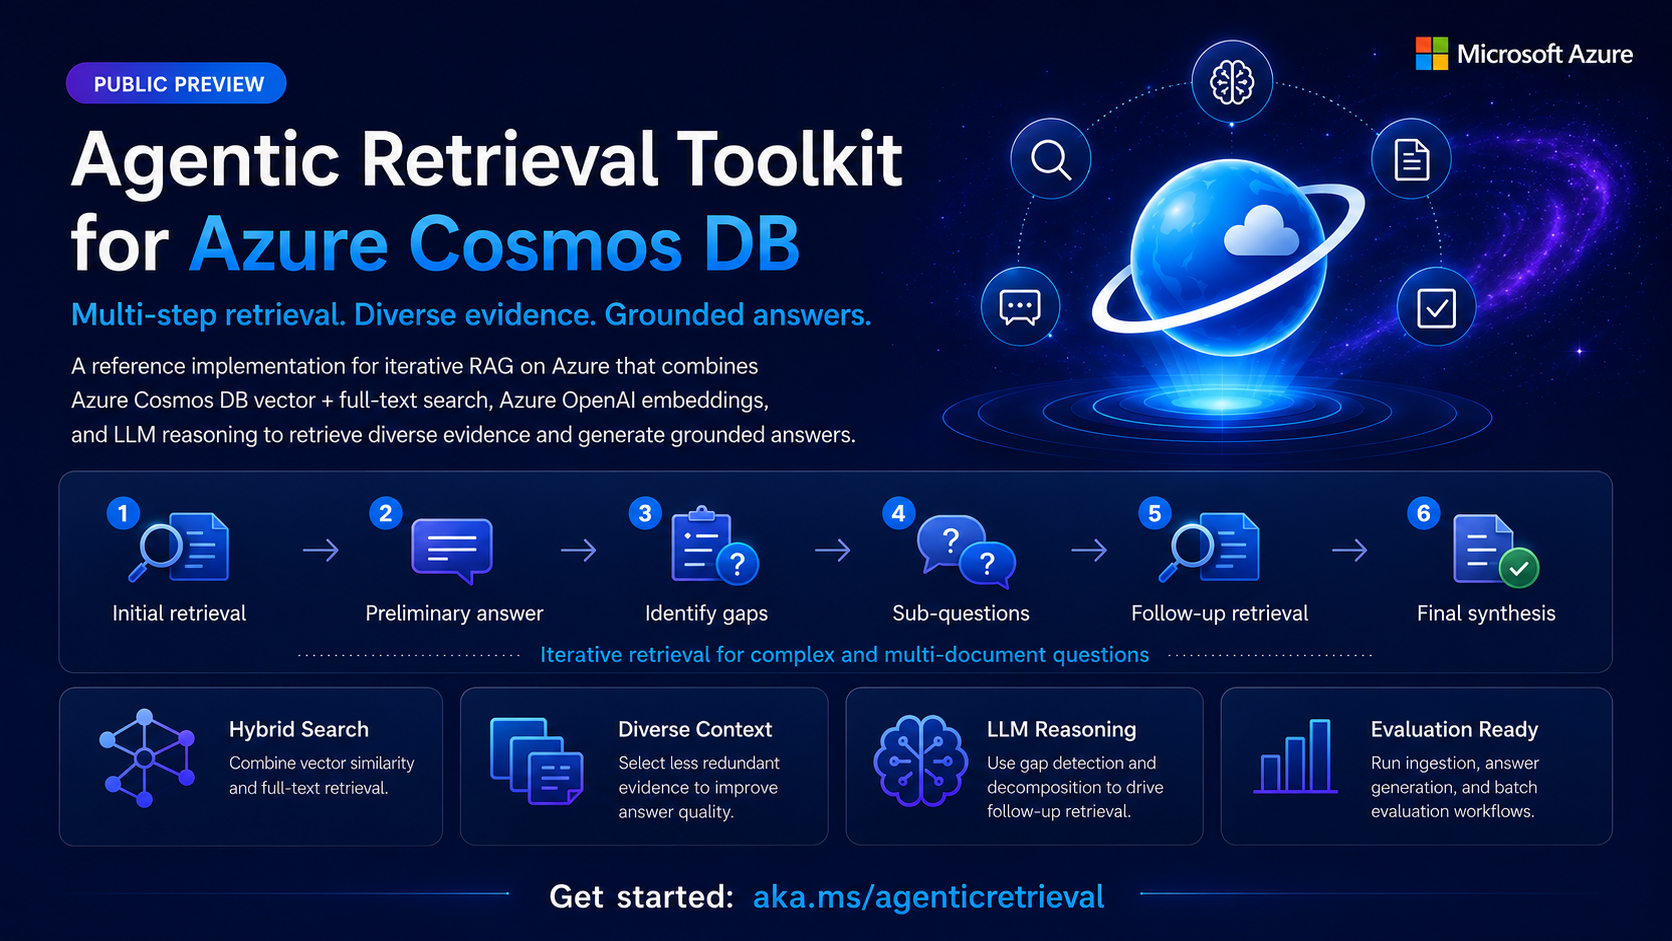
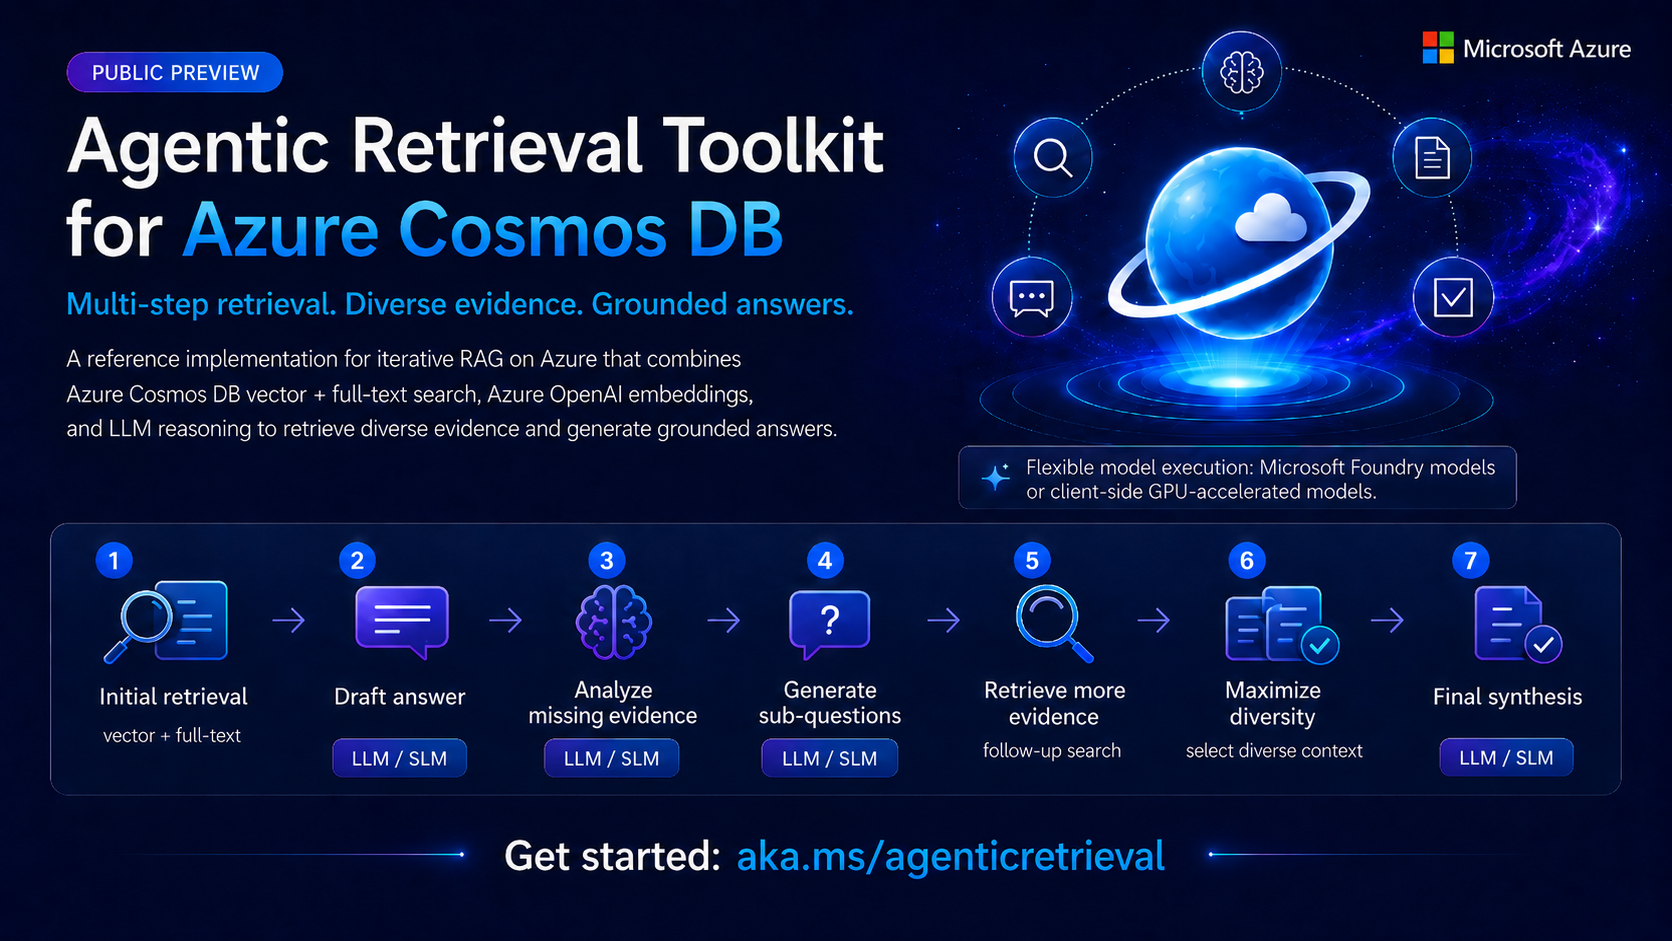
added near-final changes

diff --git a/azure/cosmos-db/gen-ai/semantic-reranker.md b/azure/cosmos-db/gen-ai/semantic-reranker.md
@@ -31,7 +31,7 @@ The Semantic Reranker uses the Microsoft AI Semantic Ranker model, developed int
 
 When evaluating a search or retrieval system, three primary metrics define the end-user experience:
 
-- **Accuracy or recall**: How closely the retrieved results match the ground truth. For example, approximate vector search with DiskANN compared to exact search with a kNN or brute-force searchx.
+- **Accuracy or recall**: How closely the retrieved results match the ground truth. For example, approximate vector search with DiskANN compared to exact search with a kNN or brute-force search.
 - **Latency**: The total time taken to return results from query submission to response.
 - **Relevance**: How well the retrieved documents match the user's intent. For example, for a query like "best surf spots in Hawaii," returning a curated surf guide is more relevant than a general Hawaii travel article.
 
@@ -67,66 +67,93 @@ Use the Azure portal to enable, disable, and configure Semantic Reranker for a s
 
 1. Review the configuration, then save your changes.
 
-## Optional: assign the inference role with Azure CLI
+Next, you want to assign Semantic Reranker roles to the identities that configure the feature or call it at runtime. You can assign roles to a Microsoft Entra user, service principal, user-assigned managed identity, or system-assigned managed identity.
 
-Assign the `Azure.Inference.Executor` app role to the identity that calls Semantic Reranker. You can assign this role from **Access control (IAM)**, from the Semantic Reranker blade in the Azure portal, or by using Azure CLI. Use the CLI option for a user-assigned managed identity, system-assigned managed identity, or Microsoft Entra user.
+## RBAC roles for Semantic Reranker
 
-Before you run these commands, replace `<inference-service-application-id>` with the application ID for the inference service first-party app. You need permissions to read service principals and create app role assignments in Microsoft Entra ID.
+Semantic Reranker uses account-level roles for feature configuration and runtime calls. Grant each identity only the role it needs.
 
-### Assign the role to a managed identity
+| Role name | Role identifier | Description |
+| --- | --- | --- |
+| `Inference Account Operator` | `360cab3d-4340-4c96-816d-682fbd52b3e2` | Enables and disables Semantic Reranker on an Azure Cosmos DB account, but doesn't allow runtime reranker calls. |
+| `Inference Account Owner` | `76315a85-9e6b-4514-9780-868b1977b64e` | Enables and disables Semantic Reranker on an Azure Cosmos DB account and allows runtime reranker calls. |
+| `Semantic Reranker User` | `6c74a7c5-4a87-40f9-bb03-61e49aecbc78` | Allows an application, managed identity, service principal, or user to run Semantic Reranker queries against an Azure Cosmos DB account. |
 
-For a user-assigned or system-assigned managed identity, use the managed identity's object ID as the principal ID.
+These roles control Semantic Reranker access only. If your application uses Microsoft Entra ID to query Azure Cosmos DB before reranking, also assign Azure Cosmos DB data plane permissions that can read items from the source container. Administrators who assign roles need `Owner`, `User Access Administrator`, or equivalent Microsoft Entra permissions.
 
+## Assign Semantic Reranker roles
+
+You can assign Semantic Reranker roles in one of four ways:
+
+- Use the Semantic Reranker portal blade to assign the `Semantic Reranker User` role to identities that already have query or reader roles on the Azure Cosmos DB account and need to call Semantic Reranker.
+- Use **Access control (IAM)** on the Azure Cosmos DB account.
+- Use Azure CLI.
+- Use an Azure Resource Manager (ARM) template deployment with Bicep.
+
+### Assign the role with Azure CLI
+
+Assign the `Semantic Reranker User` role to the identity that calls Semantic Reranker. Use the CLI option when you want to assign the role to a user-assigned managed identity, system-assigned managed identity, service principal, or Microsoft Entra user without using the portal.
+
+Before you run these commands, replace the placeholder values with your Azure subscription, Azure Cosmos DB account, and principal details. The following example assigns the role at the Azure Cosmos DB account scope.
+
+#### Assign the role to a managed identity or service principal
+
+For a user-assigned managed identity, system-assigned managed identity, or service principal, use the object's principal ID.
 
 ```azurecli
 az login
 
-inferenceAppId="<inference-service-application-id>"
-principalId="<managed-identity-object-id>"
+subscriptionId="<subscription-id>"
+resourceGroupName="<resource-group-name>"
+accountName="<azure-cosmos-db-account-name>"
+principalId="<managed-identity-or-service-principal-object-id>"
+roleDefinitionId="6c74a7c5-4a87-40f9-bb03-61e49aecbc78"
+scope="/subscriptions/${subscriptionId}/resourceGroups/${resourceGroupName}/providers/Microsoft.DocumentDB/databaseAccounts/${accountName}"
 
-inferenceServicePrincipalId=$(az ad sp show \
-  --id "$inferenceAppId" \
-  --query id \
-  --output tsv)
-
-appRoleId=$(az ad sp show \
-  --id "$inferenceAppId" \
-  --query "appRoles[?value=='Azure.Inference.Executor'].id | [0]" \
-  --output tsv)
-
-az rest \
-  --method post \
-  --url "https://graph.microsoft.com/v1.0/servicePrincipals/${inferenceServicePrincipalId}/appRoleAssignedTo" \
-  --headers "Content-Type=application/json" \
-  --body "{\"principalId\":\"${principalId}\",\"resourceId\":\"${inferenceServicePrincipalId}\",\"appRoleId\":\"${appRoleId}\"}"
+az role assignment create \
+  --assignee-object-id "$principalId" \
+  --assignee-principal-type ServicePrincipal \
+  --role "$roleDefinitionId" \
+  --scope "$scope"
 ```
 
-### Assign the role to a Microsoft Entra user
+#### Assign the role to a Microsoft Entra user
 
 For a Microsoft Entra user, get the user's object ID and use it as the principal ID.
 
 ```azurecli
 az login
 
-inferenceAppId="<inference-service-application-id>"
+subscriptionId="<subscription-id>"
+resourceGroupName="<resource-group-name>"
+accountName="<azure-cosmos-db-account-name>"
 userObjectId="<user-object-id>"
+roleDefinitionId="6c74a7c5-4a87-40f9-bb03-61e49aecbc78"
+scope="/subscriptions/${subscriptionId}/resourceGroups/${resourceGroupName}/providers/Microsoft.DocumentDB/databaseAccounts/${accountName}"
 
-inferenceServicePrincipalId=$(az ad sp show \
-  --id "$inferenceAppId" \
-  --query id \
-  --output tsv)
-
-appRoleId=$(az ad sp show \
-  --id "$inferenceAppId" \
-  --query "appRoles[?value=='Azure.Inference.Executor'].id | [0]" \
-  --output tsv)
-
-az rest \
-  --method post \
-  --url "https://graph.microsoft.com/v1.0/servicePrincipals/${inferenceServicePrincipalId}/appRoleAssignedTo" \
-  --headers "Content-Type=application/json" \
-  --body "{\"principalId\":\"${userObjectId}\",\"resourceId\":\"${inferenceServicePrincipalId}\",\"appRoleId\":\"${appRoleId}\"}"
+az role assignment create \
+  --assignee-object-id "$userObjectId" \
+  --assignee-principal-type User \
+  --role "$roleDefinitionId" \
+  --scope "$scope"
 ```
+
+### Assign the role with Bicep
+
+You can also create the role assignment by using an ARM template deployment with Bicep. The following resource definition assigns the `Semantic Reranker User` role at the resource group scope:
+
+```bicep
+resource semanticRerankerRoleAssignment 'Microsoft.Authorization/roleAssignments@2022-04-01' = {
+  name: guid(resourceGroup().id, 'semanticRerankerRoleAssignment')
+  properties: {
+    principalId: '<your principal id>'
+    roleDefinitionId: subscriptionResourceId('Microsoft.Authorization/roleDefinitions', '6c74a7c5-4a87-40f9-bb03-61e49aecbc78')
+    principalType: 'ServicePrincipal'
+  }
+}
+```
+
+Replace `<your principal id>` with the service principal identifier that should receive permissions. Because this resource definition uses the deployment resource group scope, the role assignment applies to the entire resource group where you deploy the template.
 
 ## API parameters
 
